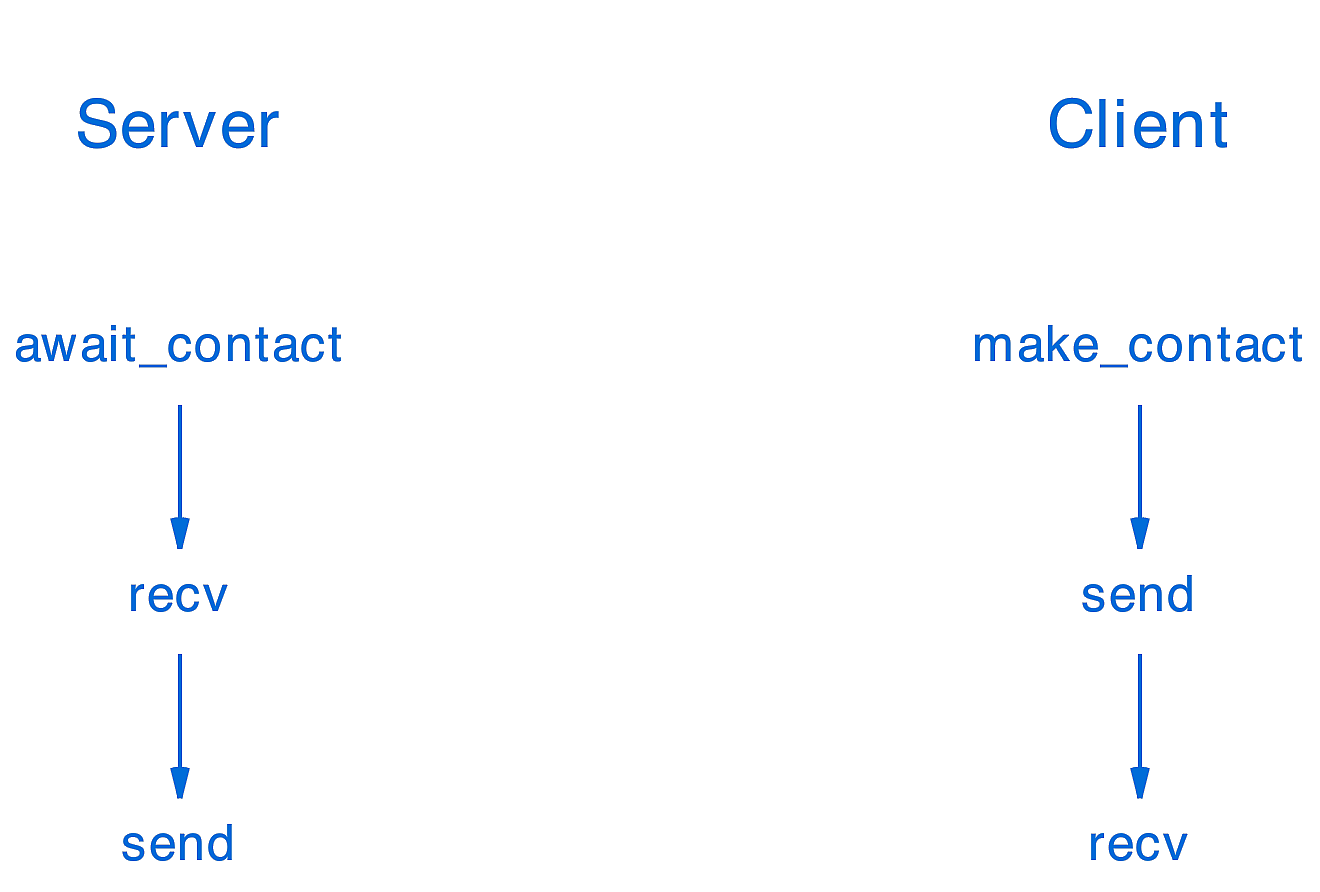
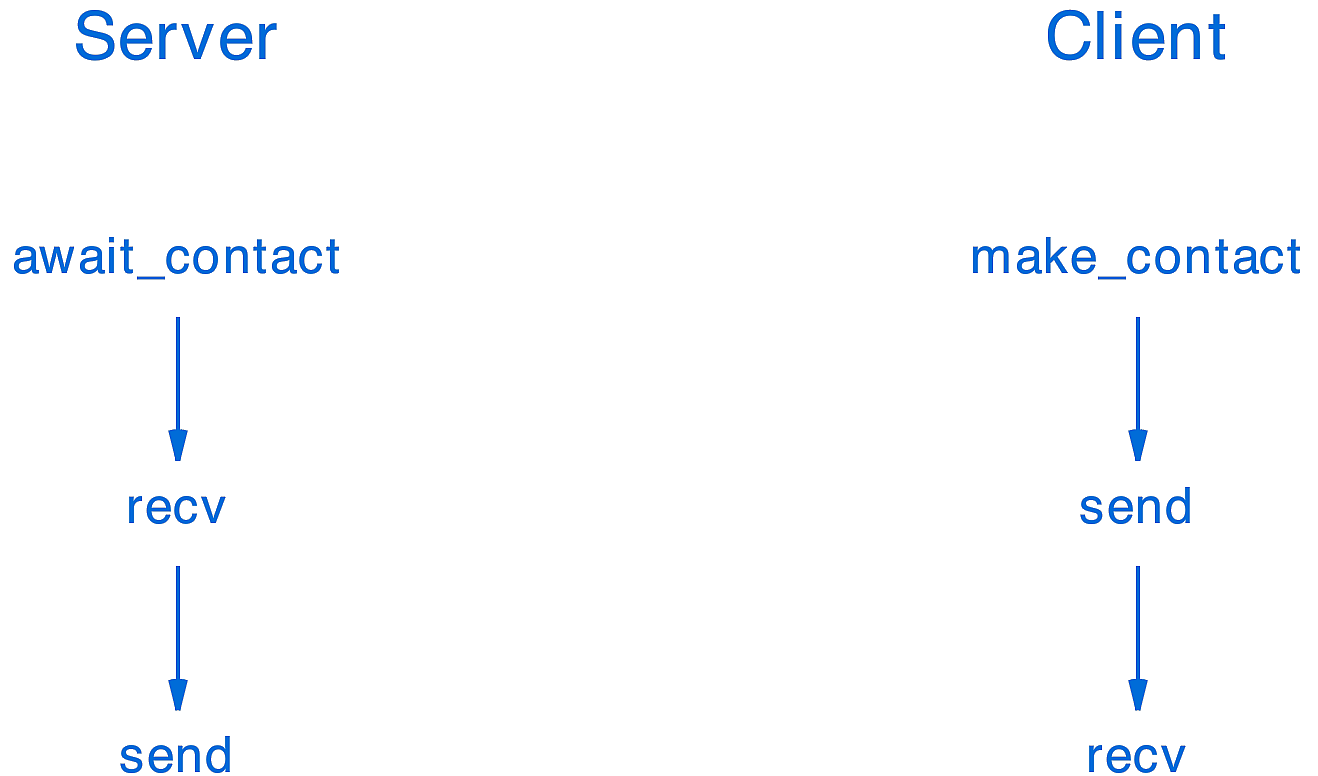
module 2 son duzenlemeleri yapıldı. gereksiz resimler silindi

diff --git a/slides/mod02-applications/mod02_uygulama.md b/slides/mod02-applications/mod02_uygulama.md
@@ -265,7 +265,7 @@ footer: 'Adapted from D. E. Comer (Prentice-Hall)'
   - Fonksiyonlar kümesidir.
   - Veri aktarımının yanı sıra kontrol fonksiyonlarını da içerir (örneğin iletişimi kurma ve sonlandırma).
 - İşletim sistemi tarafından tanımlanır; İnternet standartlarının bir parçası değildir.
-- **Soket API (Socket API)** fiili bir standart (de facto standard) haline gelmiştir.
+- **Soket API (Socket API)** fiili bir standart haline gelmiştir.
 
 ---
 
@@ -349,7 +349,7 @@ footer: 'Adapted from D. E. Comer (Prentice-Hall)'
 # Soket API ve Tarihçesi
 
 - Orijinal olarak **BSD Unix** işletim sisteminin bir parçası olarak geliştirilmiştir (1983).
-- Günümüzde endüstride **fiili standart** (de facto standard) haline gelmiştir.
+- Günümüzde endüstride **fiili standart** haline gelmiştir.
 - AT&T, **TLI** (Transport Layer Interface) adında alternatif bir arayüz tanımlamıştı; ancak TLI artık kullanılmamaktadır.
 - Neredeyse tüm işletim sistemleri soket uygulamasını içerir.
 - Microsoft Windows küçük değişiklikler yapmayı tercih etmiştir (Winsock - rahatsız edici bir ayrıntı).
@@ -691,14 +691,15 @@ X-Worst-TV-Shows: any reality show
 
 ---
 
-# Uzaktan Erişim ve Uzaktan Masaüstü (Remote Login And Remote Desktop)
+<!-- _class: compact -->
+# Uzaktan Erişim ve Uzakt Masaüstü
 
 - **Uzaktan Erişim (Remote Login)**:
   - Komut satırı arayüzüne (CLI) sahip sistemler içindir.
   - İnternet standardı **TELNET**'tir.
   - Güvenli kabuk (SSH) aktarımları şifreler.
   - Uygulama protokollerinin karmaşıklığını kavramak için TELNET standardına bakınız.
-- **Uzaktan Masaüstü (Remote Desktop)**:
+- **Uzak Masaüstü (Remote Desktop)**:
   - Grafik Kullanıcı Arayüzüne (GUI) sahip sistemler içindir.
   - İnternet standardı yoktur.
   - İnce istemci (thin client) mimarisine geçiş, ilgiyi yeniden canlandırmıştır.
@@ -769,7 +770,7 @@ X-Worst-TV-Shows: any reality show
 
 ---
 
-# Barındırıcı Adları ve Sunulan Hizmetler (Host Names and Services Offered)
+# Ana Bilgisayar Adları (Host Names) ve Sunulan Hizmetler
 
 - Birçok kuruluş, barındırıcı adını bilgisayarın sunduğu hizmetle eşleşecek şekilde seçer:
   - `mail.foobar.com`
@@ -783,11 +784,13 @@ X-Worst-TV-Shows: any reality show
 
 - Adlar bir sunucu hiyerarşisine bölünmüştür.
 - Birden fazla gruplama mümkündür.
+- Örnek:
 
-![center height:260px](images/fig_166_dns_servers.png)
+![center height:280px](images/fig_166_dns_servers.png)
 
 ---
 
+<!-- _class: compact -->
 # Ad Çözümleme ve Önbellekleme (Name Resolution & Caching)
 
 - **Çözümleyici (Resolver)**:
@@ -798,7 +801,7 @@ X-Worst-TV-Shows: any reality show
 - **Önbellekleme (Caching)**:
   - Referans yerelliği (locality of reference) ilkesini izler.
   - Her DNS sunucusu sonuçları önbelleğe alır.
-  - Süresi dolan (stale) önbellek ögeleri asla tutulmaz.
+  - Süresi dolan önbellek ögeleri asla tutulmaz.
 
 ---
 
@@ -825,8 +828,8 @@ if ( sunucu N için yetkili ise (authority) ) {
 
 ---
 
-<!-- _class: lead -->
-# Modül 2 Özeti (Summary)
+<!-- _class: compact -->
+# Modül 2 Özeti
 
 - Tüm İnternet hizmetlerini uygulamalar sağlar.
 - İnternet, bağlantı tabanlı akış (stream) veya bağlantısız mesaj (message) iletişimi sunar.
@@ -837,6 +840,12 @@ if ( sunucu N için yetkili ise (authority) ) {
 - Uygulama katmanı protokolü şunları tanımlayabilir:
   - Veri ve mesaj biçimleri (temsil / representation)
   - Mesaj alışverişi kuralları (aktarım / transfer)
+
+---
+
+<!-- _class: lead -->
+# Modül 2 Özeti
+
 - İncelenen uygulamalar:
   - Web (URL, HTML, HTTP)
   - E-Posta (SMTP, RFC2822, MIME)
